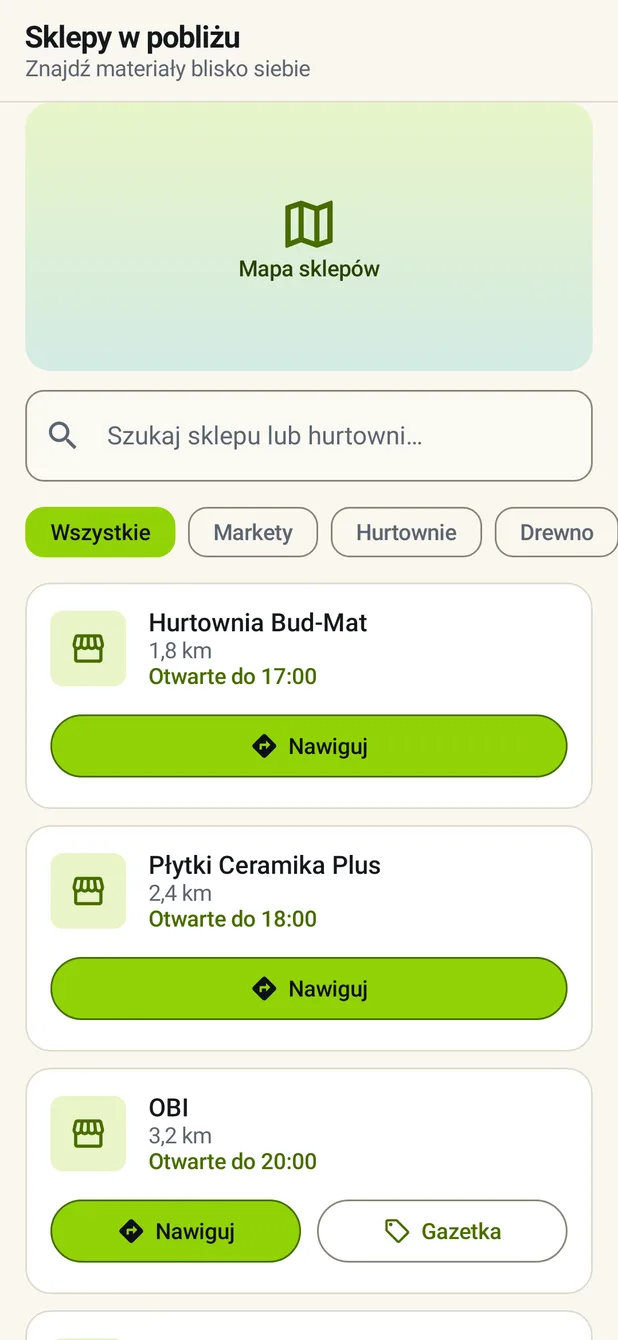
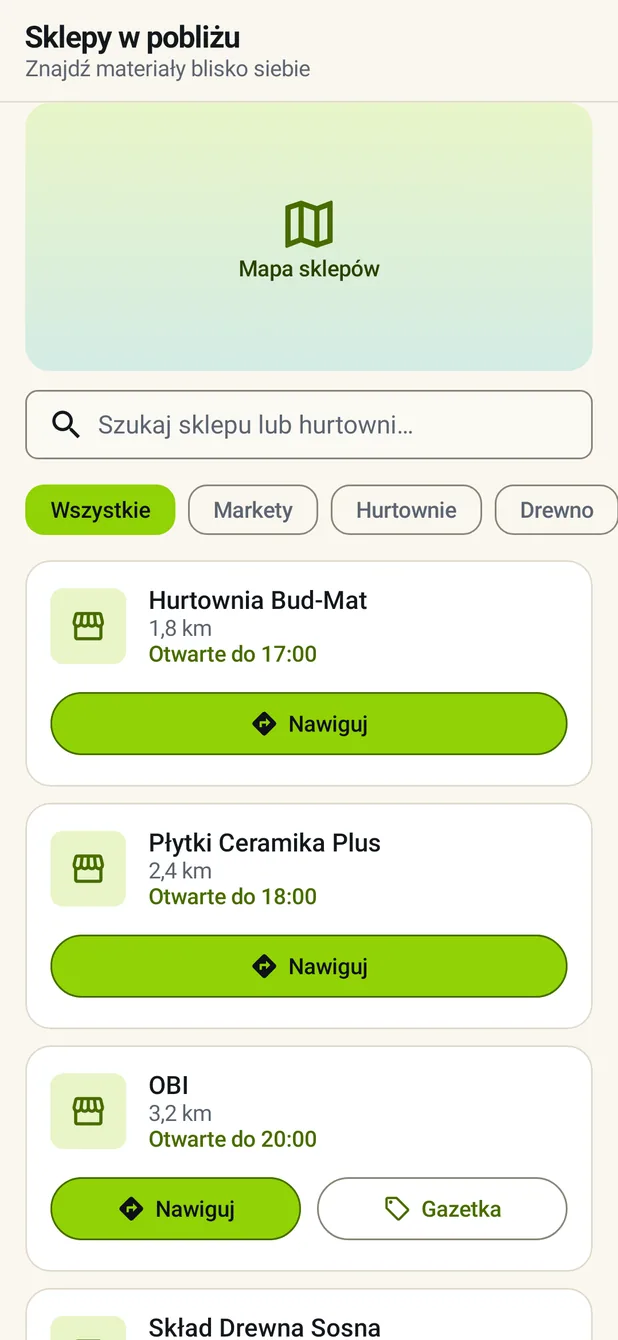
Session 55 recorded: the app's form field is the site's field
The work is in 3d-polednia/Materio (commit 0e7c47d). This repo changed by two binary
files and the plan: pl_calc.webp and pl_stores.webp on /aplikacja/, because both of
those screens draw fields and the app's fields no longer look the way the shipped
screenshots showed them.

pl_home.webp is deliberately untouched — that screen has no field on it, and the
re-encode differed by 0.08% of pixels, which is the encoder rather than the app
(against 18.9% on the store finder and 2.1% on the calculator). A re-encode with no
change in it is churn in a repository that serves its own root.

Nothing the build reads moved, so no page was regenerated and STAMP did not need
bumping: the screenshots are referenced without ?v=. build.mjs --check still reads the
same 15 calculators and 1160 keys.

Point 2 of "Do zrobienia w konsolach" now names session 55 too: until the AAB ships,
the store's form still wears its label inside the border.

Changed region(s): [[0.0307, 0.306, 1.0, 1.0]]

diff --git a/docs/MASTER_PLAN.md b/docs/MASTER_PLAN.md
@@ -93,6 +93,7 @@ najpierw to, co sprawia, że LiczMat Pro da się komuś sprzedać i odebrać.
 | 52 | Jeden kalkulator zamiast dwóch: ścianka działowa i zabudowa (repo aplikacji) | **Zrobione** — 2026-08-27, commit `61bb0c6`. Czeka na wydanie AAB (właściciel) |
 | 53 | Terminarz w aplikacji (repo aplikacji) | **Zrobione** — 2026-08-27, commit `24faead`. Czeka na wydanie AAB (właściciel) |
 | 54 | Łańcuch i historia w aplikacji (repo aplikacji) | **Zrobione** — 2026-08-27, commit `68c026a`. Czeka na wydanie AAB (właściciel) |
+| 55 | Kształt pola formularza ze strony + przepisanie testów (repo aplikacji) | **Zrobione** — 2026-08-28, commit `0e7c47d`. Czeka na wydanie AAB (właściciel) |
 
 Sesja 49 doszła 2026-08-21 na prośbę właściciela: docelowo plan ma się przestawiać
 kliknięciem przy adresie e-mail, w przeglądarce, bez terminala. Wymaga serwera, który
@@ -198,6 +199,63 @@ Piętnaście kluczy to **słowa strony** w dziesięciu językach; `crm_quotes_em
 i zostało użyte ponownie, zamiast dorabiać synonim. 245/245 testów przechodzi. **Strona nie zmieniła
 się o bajt.**
 
+Sesja 55 to czwarta pozycja kodowa wieczornego planu i znalezisko **M**: pole formularza.
+Sesja 50 przepisała ze strony kolory, typografię, odstępy i promienie, a **kształt jednej
+kontrolki, z której zrobiony jest kalkulator**, został M3-owy. To nie jest detal:
+`OutlinedTextField` wpuszcza etykietę **w obramowanie** i ma minimum 56 dp, a strona stawia
+etykietę w **osobnej linii nad** polem i daje pudełku 44 dp — tyle, ile ma przycisk obok —
+z `--field-bg` w środku, jednym włoskiem `--outline-control`, promieniem `--radius-xs`,
+tekstem 16 sp i `--accent` na focusie. Dwa produkty pytały o ten sam wymiar w dwóch
+kształtach.
+
+`MaterioField` w `core/designsystem/component/Fields.kt` to ta reguła przepisana, i
+**wszystkie pola w `feature/` przez nią przechodzą** — oba kalkulatory, pomieszczenie,
+konto, dialogi projektu i zapisu, formularz PDF, CRM i trzy wyszukiwarki. `NumericField`
+i `DropdownPicker` stoją na niej; `<select>` to to samo pudełko tylko do odczytu, z listą
+na końcu. Poza tym plikiem nikt już nie sięga po widżet M3.
+
+**Etykieta wychodząc z pudełka zabiera polu nazwę.** W M3 etykieta *była* nazwą dostępności;
+`Text` nad pudełkiem to rodzeństwo, więc TalkBack przeczytałby „pole edycji, puste".
+`MaterioField` wpisuje więc etykietę w `contentDescription` — to jest ten sam `aria-label`,
+który strona stawia na tych samych kontrolkach. Wyszukiwarka nazwę nosi i **nie rysuje**
+linii etykiety: lupa i podpowiedź mówią, czym jest, na ekranie — a podpowiedź znika, gdy
+ktoś zacznie pisać.
+
+Stąd druga połowa zadania: **testy trzeba było przepisać, nie poprawić**.
+`onNodeWithText(label)` trafiał w pole tylko dlatego, że etykieta była w środku. Teraz
+trafia w linię etykiety, a pisanie po linii tekstu kończy się błędem — 16 testów, dokładnie
+te, które wypełniają formularz. Chodzą przez **jeden** pomocnik, `field(label)` w
+`FieldFinders.kt`, więc kolejna zmiana mechanizmu to jedna edycja, a nie pięćdziesiąt.
+
+`FieldShapeTest` jest nowy i pyta **wyrenderowany ekran** o to, o co jest ta sesja: pudełko
+ma co najmniej 44 dp, etykieta stoi nad nim, pole nosi nazwę i przyjmuje tekst, a
+wyszukiwarka nie rysuje etykiety, ale nazwę ma. Dwa z nich puszczono na kodzie **z
+usuniętą poprawką**, żeby sprawdzić, że naprawdę potrafią nie przejść. Piąty pilnuje
+`fieldModifier`: `FocusRequester` podany do `modifier` ląduje na kolumnie i nic nie robi, a
+dialog zmiany nazwy połyka nieudane żądanie focusa z założenia — czyli nikt by nie zgłosił,
+że klawiatura przestała się otwierać.
+
+`scripts/check-contrast.mjs` w repo aplikacji dostał dwie pary, które pole teraz nosi:
+wpisana wartość i podpowiedź na tle `--field-bg`, w obu motywach. **Bliźniak na stronie miał
+obie od dawna** — to plik aplikacji nadrabia. 48 par, zero błędów.
+
+251/251 testów przechodzi. Po stronie serwisu zmieniły się **dwa pliki binarne**: zrzuty
+`pl_calc.webp` i `pl_stores.webp` na `/aplikacja/`, bo oba te ekrany rysują pola.
+`pl_home.webp` **został nietknięty** — na tym ekranie nie ma ani jednego pola, a
+przekodowanie bez zmiany to śmieć w historii (zmierzone: 0,08 % pikseli, czyli szum
+kodera, przy 18,9 % na wyszukiwarce sklepów i 2,1 % na kalkulatorze). Jak 46, 47, 50, 52,
+53 i 54 — **czeka na wydanie AAB**.
+
+**NASTĘPNE ZADANIE.** Wieczorny plan właściciela ma pozycje **poza** M i **nie ma ich w
+żadnym z repozytoriów** — sesje 52–54 opisały tylko C4, C2 i C3, a listy C1–C5 nikt nie
+zapisał. Więc następne zadanie nazywa właściciel. Jeżeli lista jest wyczerpana, ta sesja
+proponuje jedno, zmierzone tu i teraz: **kopia zapasowa nie niesie pomieszczeń, klientów,
+zleceń ani wycen**. `BackupManager` zapisuje projekty, kalkulacje, listy zakupów,
+materiały własne i ustawienia; pomieszczenia nie były w niej nigdy, a trzy kolekcje Pro
+doszły w Sesji 46 i nikt kopii nie rozszerzył. Dopóki reguły Firestore nie są wdrożone
+(punkt 1 listy wyżej), **kopia jest jedyną drogą tych danych z telefonu** — kto zmienia
+sprzęt, zostawia na starym cały warsztat Pro.
+
 Ustalenia właściciela z 2026-08-21, na których stoi ten plan: nazwa **języka** przy fladze
 (bez nazw krajów), nadawanie Pro **narzędziem po e-mailu**, „rozjechany na telefonie"
 dotyczy **strony pojedynczego kalkulatora**, „stop slop" znaczy skrócić **plus test, który
@@ -222,7 +280,7 @@ repozytorium — bo sesja nie ma klucza do żadnej z tych konsol i nie zakłada 
 | # | Co | Gdzie | Jak sprawdzone | Skutek, dopóki nie zrobione |
 |---|---|---|---|---|
 | 1 | `firebase deploy --only firestore` | Firebase CLI, z katalogu głównego repo `Materio` | Stan repo: `validClient()`, `validJob()`, `validQuote()` są w `config/firebase/firestore.rules` od Sesji 46. Wdrożenia nie da się odczytać bez klucza albo konta — **niesprawdzone na żywo** | **Klienci, zlecenia i wyceny nie jadą na telefon**, a „wyślij" w `/app/` kończy się `PERMISSION_DENIED`. Szczegóły niżej |
-| 2 | **Wydanie AAB — dopiero po punkcie 1** | Play Console | Zmierzone: w produkcji stoi **1.10.2 (`versionCode` 11002)**, a `main` ma niewydane commity (Sesje 46, 47, 50, 52, 53 i 54) przy **tej samej** wersji | Poprawka zaokrąglenia z Sesji 47 nie dotarła do nikogo: telefon liczy inaczej niż serwis. Ekrany Pro też nie. Wygląd z Sesji 50 też nie — w sklepie stoi aplikacja w starej oliwce, a `/aplikacja/` na stronie pokazuje już nową. Scalenie kalkulatora z Sesji 52 też nie: w sklepie wybierak dalej ma szesnaście pozycji zamiast piętnastu. Terminarza z Sesji 53 ani ścieżki i historii z Sesji 54 też nie — kto zapłaci za Pro i otworzy telefon, dostaje trzy moduły z pięciu, mimo że w `main` jest już pięć. **Trzeba podbić `versionCode`/`versionName`** — Play odrzuca powtórzony |
+| 2 | **Wydanie AAB — dopiero po punkcie 1** | Play Console | Zmierzone: w produkcji stoi **1.10.2 (`versionCode` 11002)**, a `main` ma niewydane commity (Sesje 46, 47, 50, 52, 53, 54 i 55) przy **tej samej** wersji | Poprawka zaokrąglenia z Sesji 47 nie dotarła do nikogo: telefon liczy inaczej niż serwis. Ekrany Pro też nie. Wygląd z Sesji 50 też nie — w sklepie stoi aplikacja w starej oliwce, a `/aplikacja/` na stronie pokazuje już nową. Scalenie kalkulatora z Sesji 52 też nie: w sklepie wybierak dalej ma szesnaście pozycji zamiast piętnastu. Kształtu pola z Sesji 55 też nie: w sklepie formularz dalej ma etykietę wpuszczoną w ramkę i pudełko wyższe niż na stronie. Terminarza z Sesji 53 ani ścieżki i historii z Sesji 54 też nie — kto zapłaci za Pro i otworzy telefon, dostaje trzy moduły z pięciu, mimo że w `main` jest już pięć. **Trzeba podbić `versionCode`/`versionName`** — Play odrzuca powtórzony |
 | 3 | **Opis w sklepie wysyła ludzi na martwą domenę** | Play Console → Główna karta sklepu, **11 języków** | Zmierzone 2026-08-27 na żywych stronach sklepu (`hl=pl,en,de,uk,cs` — w każdej **dwa** wystąpienia) | Opis mówi „kalkulatory działają też na materio-app.com" i „użyj »Nie pamiętam hasła« na materio-app.com". Ten host odpowiada **404**. Drugie zdanie kieruje kogoś, kto stracił dostęp do konta, pod adres, którego nie ma. Podmienić na `liczmat.com` |
 | 4 | Rotacja klucza `pracownik@materio-502513` | Google Cloud → IAM → Konta serwisowe | Stan z Sesji 37, niesprawdzalny stąd | Prywatny klucz RSA przeszedł przez transkrypt sesji 2026-08-26. **Najpierw nowy klucz i podmiana tam, gdzie służy do wysyłki na Play, dopiero potem kasowanie starego** |
 | 5 | Keystore i hasła w historii gita | repo `Materio` | **Zmierzone 2026-08-27:** `git ls-files` wymienia `materio-upload.jks` **i** `materio-keystore-creds.txt` — są śledzone **dziś**, nie tylko w historii. `.gitignore` ma `*.jks`, ale **nie ma** pliku z hasłami, a `.gitignore` i tak nie działa wstecz | Klucz upload i jego hasła leżą w repozytorium. Uwaga: przepis na wydanie w `CLAUDE.md` **czyta oba te pliki z korzenia repo**, więc `git rm --cached` bez zmiany przepisu zepsuje budowanie AAB. To jest decyzja właściciela, nie sesji |
